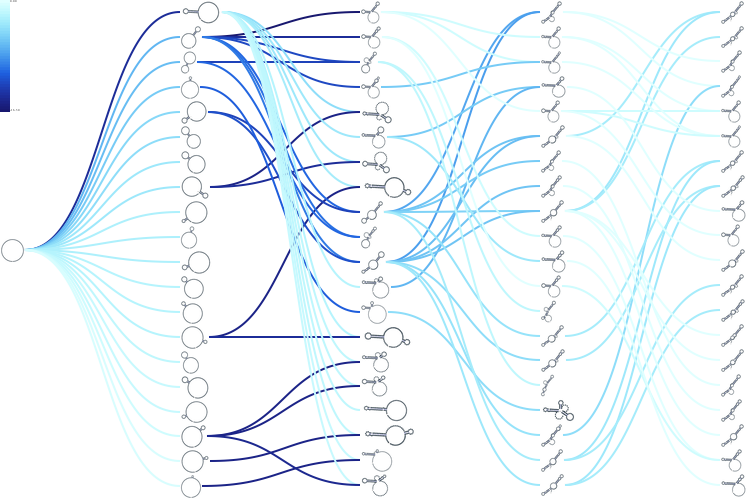
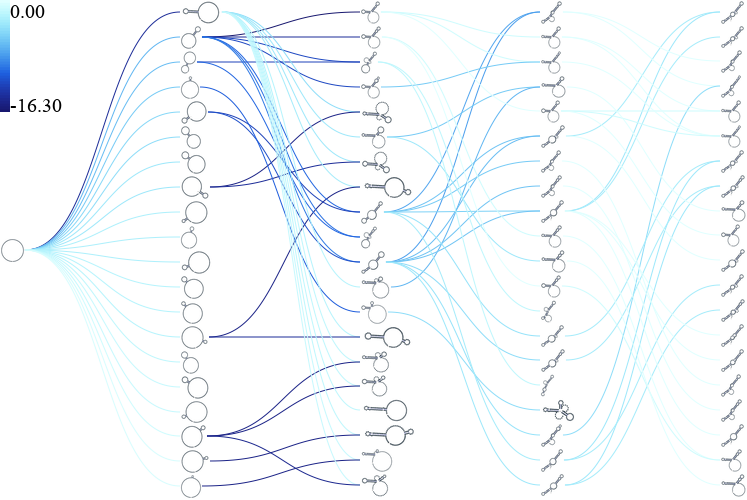
modifs

diff --git a/utility/surface.py b/utility/surface.py
@@ -67,18 +67,19 @@ def main():
     pos = mds.fit_transform(dist_mat)
 
     nrjs = [nrj for st, nrj in structures]
-    saved_st = [
-        "..................................................................................",
-        ".....(((((((((((.((.....)))))))))))))......................(((........))).........",
-        ".....(((((((((((..........)))))))))))....................((((((.............))))))",
-        ".....(((((((((((.((.....)))))))))))))(((((................)))))...................",
-        ".....(((((((((((.((.....)))))))))))))....................((((((.............))))))",
-        ".....(((((((((((.((.....)))))))))))))(((((..((........))..)))))...................",
-        ".....(((((((((((..........))))))))))).............................................",
-        ".....(((((((((((.((.....)))))))))))))((((((((.........))).)))))..................."
-    ]
 
-    id_struct = [i for i, (st, nrj) in enumerate(structures) if st in saved_st]
+    # print the id of some structures
+    # saved_st = [
+    #     "..................................................................................",
+    #     ".....(((((((((((.((.....)))))))))))))......................(((........))).........",
+    #     ".....(((((((((((..........)))))))))))....................((((((.............))))))",
+    #     ".....(((((((((((.((.....)))))))))))))(((((................)))))...................",
+    #     ".....(((((((((((.((.....)))))))))))))....................((((((.............))))))",
+    #     ".....(((((((((((.((.....)))))))))))))(((((..((........))..)))))...................",
+    #     ".....(((((((((((..........))))))))))).............................................",
+    #     ".....(((((((((((.((.....)))))))))))))((((((((.........))).)))))..................."
+    # ]
+    # id_struct = [i for i, (st, nrj) in enumerate(structures) if st in saved_st]
 
     ti = np.linspace(np.min(pos) -1, np.max(pos) +1, 300)
     XI, YI = np.meshgrid(ti, ti)
@@ -107,15 +108,16 @@ def main():
     ax.scatter(pos[id_struct, 0], pos[id_struct, 1], c=array(nrjs)[id_struct], s=30, lw=0,
                label='MDS', cmap=cm.coolwarm, alpha=1.0)
 
-    for px, py, ist in zip(pos[id_struct, 0], pos[id_struct, 1], id_struct):
-        if ist == 50:
-            ax.text(px-1.0, py+1, ist, fontsize=20)
-        elif ist == 44:
-            ax.text(px-1, py-3.5, ist, fontsize=20)
-        elif ist == 0:
-            ax.text(px-2.2, py-1.5, ist, fontsize=20)
-        else:
-            ax.text(px+1.0, py-1.5, ist, fontsize=20)
+    # print some structure ids
+    # for px, py, ist in zip(pos[id_struct, 0], pos[id_struct, 1], id_struct):
+    #     if ist == 50:
+    #         ax.text(px-1.0, py+1, ist, fontsize=20)
+    #     elif ist == 44:
+    #         ax.text(px-1, py-3.5, ist, fontsize=20)
+    #     elif ist == 0:
+    #         ax.text(px-2.2, py-1.5, ist, fontsize=20)
+    #     else:
+    #         ax.text(px+1.0, py-1.5, ist, fontsize=20)
 
     cb = fig.colorbar(surf, ax=ax)
     # cb.set_label("Stability (kcal/mol)", rotation=270)

diff --git a/utility/plot_path.py b/utility/plot_path.py
@@ -79,8 +79,8 @@ def parse_arguments():
     parser.add_argument('--width', '-wi', help="figure width", type=int, default=500)
     parser.add_argument('--height', '-he', help="figure height", type=int, default=300)
     parser.add_argument('--res_varna', '-rv', help="change varna resolution", type=float, default=1.0)
-    parser.add_argument('--line_thick', '-lt', help="line thickness", type=int, default=2)
-    parser.add_argument('--font_size', '-fs', help="font size for the colors", type=int, default=3)
+    parser.add_argument('--line_thick', '-lt', help="line thickness", type=int, default=1)
+    parser.add_argument('--font_size', '-fs', help="font size for the colors", type=int, default=20)
     parser.add_argument('--varna_jar', help="varna jar (please download it from VARNA website)")
     parser.add_argument('--no_col', action="store_true", help="don't use the color gradient for the edges")
     parser.add_argument('--no_fig', action="store_true", help="you already computed the structures previously?")
